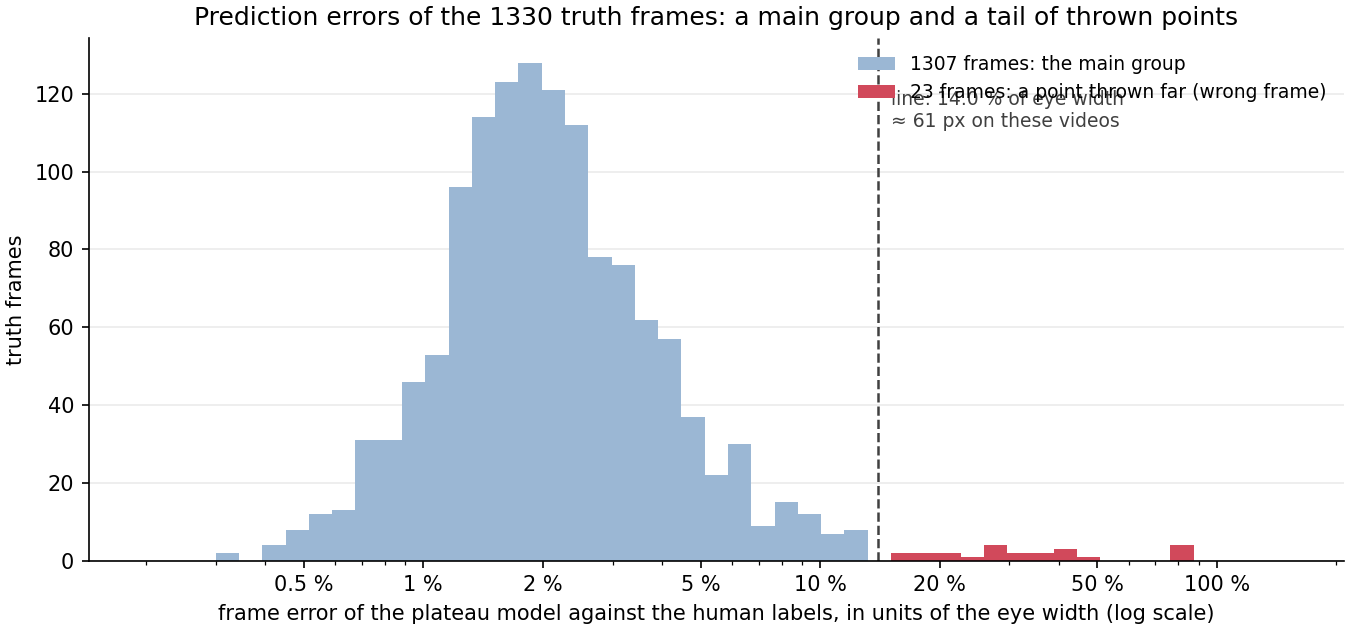
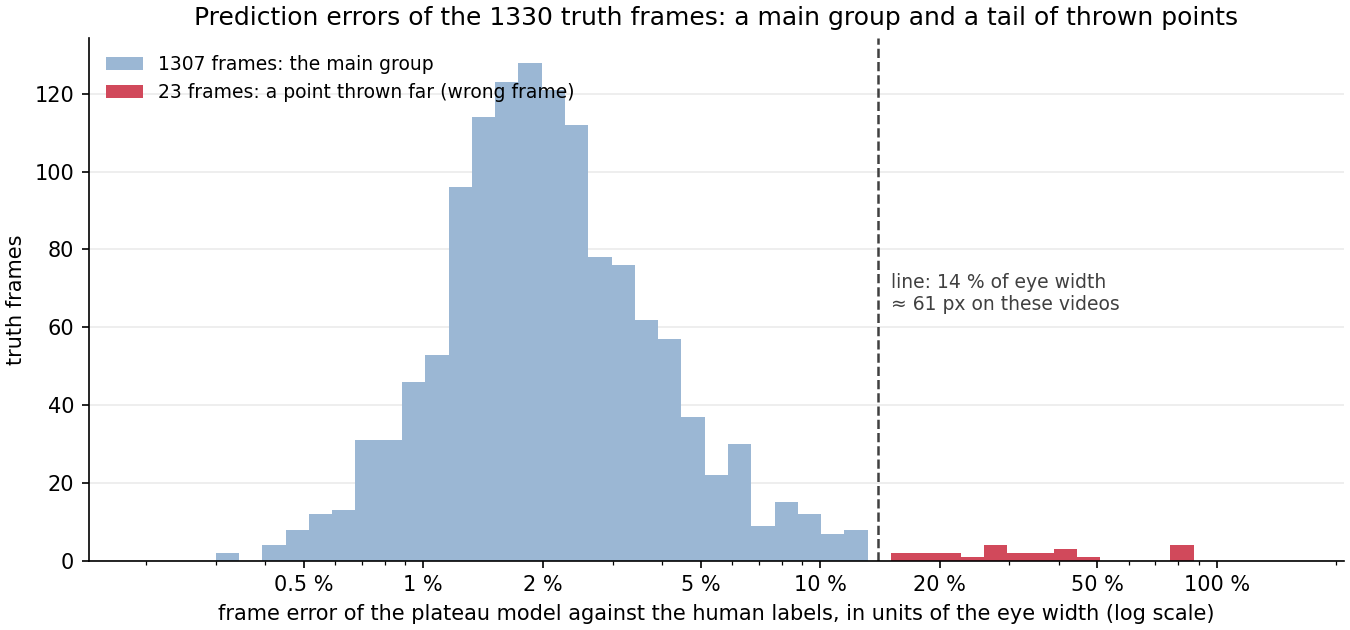
Report 8.1: histogram legend and line label no longer overlap; sentence on where the gap between the two groups comes from

Changed region(s): [[0.6222, 0.0905, 0.9956, 0.2111], [0.0622, 0.0905, 0.4356, 0.181], [0.6533, 0.4222, 0.84, 0.5127]]

diff --git a/report/index.html b/report/index.html
@@ -78,7 +78,7 @@ math[display="block"]{margin:10px 0 6px;text-align:left;overflow-x:auto;max-widt
 
 <header>
   <h1><span lang="zh">小鼠眼睛关键点追踪：做了什么，结果是什么</span><span lang="en">Mouse eye keypoint tracking: what was done and what came out</span></h1>
-  <p class="muted small">Zhiheng Li (University of Minnesota), Kaiwen Sheng (Stanford) · <span lang="zh">页面生成时间</span><span lang="en">page built</span> 2026-10-30 19:28 · <a href="https://github.com/ZhihengLi0/mouse-behavior-tracking">GitHub: ZhihengLi0/mouse-behavior-tracking</a></p>
+  <p class="muted small">Zhiheng Li (University of Minnesota), Kaiwen Sheng (Stanford) · <span lang="zh">页面生成时间</span><span lang="en">page built</span> 2026-10-30 19:29 · <a href="https://github.com/ZhihengLi0/mouse-behavior-tracking">GitHub: ZhihengLi0/mouse-behavior-tracking</a></p>
 
   <div class="text" lang="zh">
     <p><b>任务：</b>用 DeepLabCut 在小鼠眼睛视频的每一帧上找 8 个点：瞳孔上、下、左、右，上眼睑、下眼睑，鼻侧眼角、颞侧眼角。由这 8 个点得到瞳孔大小、眼睛睁开程度和眨眼，之后与脑记录对齐。</p>
@@ -1032,7 +1032,7 @@ math[display="block"]{margin:10px 0 6px;text-align:left;overflow-x:auto;max-widt
         <tr><td>脚本 / 结果</td><td><code>scripts/error_tier.py</code> / <code>results/error_tier/</code></td></tr>
       </tbody>
     </table>
-    <p>所有误差和阈值都用眼宽的倍数，换相机或换拍摄距离不用重定。把 1330 帧的误差画成直方图（图 8-0）：主体是一个鼓包，在眼宽的 13% 左右收尾，再往右是稀疏的一条尾巴，那些帧里有一个点被甩到了很远。线放在鼓包收尾处，眼宽的 14%，12.7% 到 15.4% 之间没有帧。超过线的叫<b>错帧</b>，其余都算对的帧。以前用过的 20 px 一档是标注噪声，人自己重标也放不准到这个程度，不再用。</p>
+    <p>所有误差和阈值都用眼宽的倍数，换相机或换拍摄距离不用重定。把 1330 帧的误差画成直方图（图 8-0）：主体是一个鼓包，在眼宽的 13% 左右收尾，再往右是稀疏的一条尾巴，那些帧里有一个点被甩到了很远。线放在鼓包收尾处，眼宽的 14%，12.7% 到 15.4% 之间没有帧。空档的来历：主体里的帧，模型的点都在瞳孔边缘附近，差别只是边缘放在哪一圈，这种偏差超不过瞳孔的半径；线以上的帧，热图的最高峰跑到了别的结构上，眼角、眼睑、反光点或画面边缘，点整个离开了瞳孔，误差一下就是几十个百分点。峰要么在瞳孔上要么不在，所以中间空着。超过线的叫<b>错帧</b>，其余都算对的帧。以前用过的 20 px 一档是标注噪声，人自己重标也放不准到这个程度，不再用。</p>
   </div>
   <div class="text" lang="en">
     <table>
@@ -1046,7 +1046,7 @@ math[display="block"]{margin:10px 0 6px;text-align:left;overflow-x:auto;max-widt
         <tr><td>Script / results</td><td><code>scripts/error_tier.py</code> / <code>results/error_tier/</code></td></tr>
       </tbody>
     </table>
-    <p>All errors and thresholds are fractions of the eye width, so nothing has to be re-set for another camera or distance. The histogram of the 1330 errors (Figure 8-0) has one main group that ends at about 13% of the eye width and, to its right, a sparse tail of frames in which a point was thrown far. The line is put where the main group ends, at 14% of the eye width; there is no frame between 12.7% and 15.4%. A frame above the line is a <b>wrong frame</b>; every other frame counts as right. The 20-px level used earlier is label noise, a person relabeling cannot place the points to that precision, and is not used any more.</p>
+    <p>All errors and thresholds are fractions of the eye width, so nothing has to be re-set for another camera or distance. The histogram of the 1330 errors (Figure 8-0) has one main group that ends at about 13% of the eye width and, to its right, a sparse tail of frames in which a point was thrown far. The line is put where the main group ends, at 14% of the eye width; there is no frame between 12.7% and 15.4%. Where the gap comes from: in the main group the model's points sit near the pupil edge and differ only in which ring of the edge they sit on, a deviation that cannot exceed the pupil's radius; above the line the heatmap's highest peak has moved to another structure, a corner, an eyelid, a glint or the image border, the point has left the pupil altogether, and the error is tens of per cent at once. The peak is either on the pupil or not, so the middle stays empty. A frame above the line is a <b>wrong frame</b>; every other frame counts as right. The 20-px level used earlier is label noise, a person relabeling cannot place the points to that precision, and is not used any more.</p>
   </div>
   <figure>
     <div class="figbox"><img src="assets/fig_error_line.png" alt="Histogram of the frame errors of the 1330 truth frames in units of eye width, with the line at 14 percent"></div>

diff --git a/report/template.html b/report/template.html
@@ -924,7 +924,7 @@ math[display="block"]{margin:10px 0 6px;text-align:left;overflow-x:auto;max-widt
         <tr><td>脚本 / 结果</td><td><code>scripts/error_tier.py</code> / <code>results/error_tier/</code></td></tr>
       </tbody>
     </table>
-    <p>所有误差和阈值都用眼宽的倍数，换相机或换拍摄距离不用重定。把 1330 帧的误差画成直方图（图 8-0）：主体是一个鼓包，在眼宽的 13% 左右收尾，再往右是稀疏的一条尾巴，那些帧里有一个点被甩到了很远。线放在鼓包收尾处，眼宽的 14%，12.7% 到 15.4% 之间没有帧。超过线的叫<b>错帧</b>，其余都算对的帧。以前用过的 20 px 一档是标注噪声，人自己重标也放不准到这个程度，不再用。</p>
+    <p>所有误差和阈值都用眼宽的倍数，换相机或换拍摄距离不用重定。把 1330 帧的误差画成直方图（图 8-0）：主体是一个鼓包，在眼宽的 13% 左右收尾，再往右是稀疏的一条尾巴，那些帧里有一个点被甩到了很远。线放在鼓包收尾处，眼宽的 14%，12.7% 到 15.4% 之间没有帧。空档的来历：主体里的帧，模型的点都在瞳孔边缘附近，差别只是边缘放在哪一圈，这种偏差超不过瞳孔的半径；线以上的帧，热图的最高峰跑到了别的结构上，眼角、眼睑、反光点或画面边缘，点整个离开了瞳孔，误差一下就是几十个百分点。峰要么在瞳孔上要么不在，所以中间空着。超过线的叫<b>错帧</b>，其余都算对的帧。以前用过的 20 px 一档是标注噪声，人自己重标也放不准到这个程度，不再用。</p>
   </div>
   <div class="text" lang="en">
     <table>
@@ -938,7 +938,7 @@ math[display="block"]{margin:10px 0 6px;text-align:left;overflow-x:auto;max-widt
         <tr><td>Script / results</td><td><code>scripts/error_tier.py</code> / <code>results/error_tier/</code></td></tr>
       </tbody>
     </table>
-    <p>All errors and thresholds are fractions of the eye width, so nothing has to be re-set for another camera or distance. The histogram of the 1330 errors (Figure 8-0) has one main group that ends at about 13% of the eye width and, to its right, a sparse tail of frames in which a point was thrown far. The line is put where the main group ends, at 14% of the eye width; there is no frame between 12.7% and 15.4%. A frame above the line is a <b>wrong frame</b>; every other frame counts as right. The 20-px level used earlier is label noise, a person relabeling cannot place the points to that precision, and is not used any more.</p>
+    <p>All errors and thresholds are fractions of the eye width, so nothing has to be re-set for another camera or distance. The histogram of the 1330 errors (Figure 8-0) has one main group that ends at about 13% of the eye width and, to its right, a sparse tail of frames in which a point was thrown far. The line is put where the main group ends, at 14% of the eye width; there is no frame between 12.7% and 15.4%. Where the gap comes from: in the main group the model's points sit near the pupil edge and differ only in which ring of the edge they sit on, a deviation that cannot exceed the pupil's radius; above the line the heatmap's highest peak has moved to another structure, a corner, an eyelid, a glint or the image border, the point has left the pupil altogether, and the error is tens of per cent at once. The peak is either on the pupil or not, so the middle stays empty. A frame above the line is a <b>wrong frame</b>; every other frame counts as right. The 20-px level used earlier is label noise, a person relabeling cannot place the points to that precision, and is not used any more.</p>
   </div>
   <figure>
     <div class="figbox"><img src="assets/fig_error_line.png" alt="Histogram of the frame errors of the 1330 truth frames in units of eye width, with the line at 14 percent"></div>

diff --git a/report/index_en.html b/report/index_en.html
@@ -75,7 +75,7 @@ math[display="block"]{margin:10px 0 6px;text-align:left;overflow-x:auto;max-widt
 
 <header>
   <h1><span lang="en">Mouse eye keypoint tracking: what was done and what came out</span></h1>
-  <p class="muted small">Zhiheng Li (University of Minnesota), Kaiwen Sheng (Stanford) · <span lang="en">page built</span> 2026-10-30 19:28 · <a href="https://github.com/ZhihengLi0/mouse-behavior-tracking">GitHub: ZhihengLi0/mouse-behavior-tracking</a></p>
+  <p class="muted small">Zhiheng Li (University of Minnesota), Kaiwen Sheng (Stanford) · <span lang="en">page built</span> 2026-10-30 19:29 · <a href="https://github.com/ZhihengLi0/mouse-behavior-tracking">GitHub: ZhihengLi0/mouse-behavior-tracking</a></p>
 
   
   <div class="text" lang="en">
@@ -806,7 +806,7 @@ math[display="block"]{margin:10px 0 6px;text-align:left;overflow-x:auto;max-widt
         <tr><td>Script / results</td><td><code>scripts/error_tier.py</code> / <code>results/error_tier/</code></td></tr>
       </tbody>
     </table>
-    <p>All errors and thresholds are fractions of the eye width, so nothing has to be re-set for another camera or distance. The histogram of the 1330 errors (Figure 8-0) has one main group that ends at about 13% of the eye width and, to its right, a sparse tail of frames in which a point was thrown far. The line is put where the main group ends, at 14% of the eye width; there is no frame between 12.7% and 15.4%. A frame above the line is a <b>wrong frame</b>; every other frame counts as right. The 20-px level used earlier is label noise, a person relabeling cannot place the points to that precision, and is not used any more.</p>
+    <p>All errors and thresholds are fractions of the eye width, so nothing has to be re-set for another camera or distance. The histogram of the 1330 errors (Figure 8-0) has one main group that ends at about 13% of the eye width and, to its right, a sparse tail of frames in which a point was thrown far. The line is put where the main group ends, at 14% of the eye width; there is no frame between 12.7% and 15.4%. Where the gap comes from: in the main group the model's points sit near the pupil edge and differ only in which ring of the edge they sit on, a deviation that cannot exceed the pupil's radius; above the line the heatmap's highest peak has moved to another structure, a corner, an eyelid, a glint or the image border, the point has left the pupil altogether, and the error is tens of per cent at once. The peak is either on the pupil or not, so the middle stays empty. A frame above the line is a <b>wrong frame</b>; every other frame counts as right. The 20-px level used earlier is label noise, a person relabeling cannot place the points to that precision, and is not used any more.</p>
   </div>
   <figure>
     <div class="figbox"><img src="assets/fig_error_line.png" alt="Histogram of the frame errors of the 1330 truth frames in units of eye width, with the line at 14 percent"></div>

diff --git a/v2_new_pupil_top_video_scaling/scripts/error_tier.py b/v2_new_pupil_top_video_scaling/scripts/error_tier.py
@@ -64,7 +64,7 @@ def main():
     ax.hist(L.error_rel[L.error_rel <= line], bins=bins, color="#9bb7d4", label=f"{len(L) - n_wrong} frames: the main group")
     ax.hist(L.error_rel[L.error_rel > line], bins=bins, color="#d1495b", label=f"{n_wrong} frames: a point thrown far (wrong frame)")
     ax.axvline(line, color="0.25", lw=1.2, ls="--")
-    ax.text(line * 1.08, ax.get_ylim()[1] * 0.9, f"line: {100 * line:.1f} % of eye width\n≈ {line * E.eye_width_px.median():.0f} px on these videos", fontsize=9, color="0.25", va="top")
+    ax.text(line * 1.08, ax.get_ylim()[1] * 0.55, f"line: {100 * line:.0f} % of eye width\n≈ {line * E.eye_width_px.median():.0f} px on these videos", fontsize=9, color="0.25", va="top")
     ax.set_xscale("log")
     ax.set_xlabel("frame error of the plateau model against the human labels, in units of the eye width (log scale)")
     ax.set_ylabel("truth frames")
@@ -72,7 +72,7 @@ def main():
     ax.spines[["top", "right"]].set_visible(False)
     ax.grid(axis="y", color="0.92")
     ax.set_axisbelow(True)
-    ax.legend(frameon=False, fontsize=9)
+    ax.legend(frameon=False, fontsize=9, loc="upper left")
     ticks = [0.005, 0.01, 0.02, 0.05, 0.1, 0.2, 0.5, 1.0]
     ax.set_xticks(ticks)
     ax.set_xticklabels([f"{100 * t:g} %" for t in ticks])
